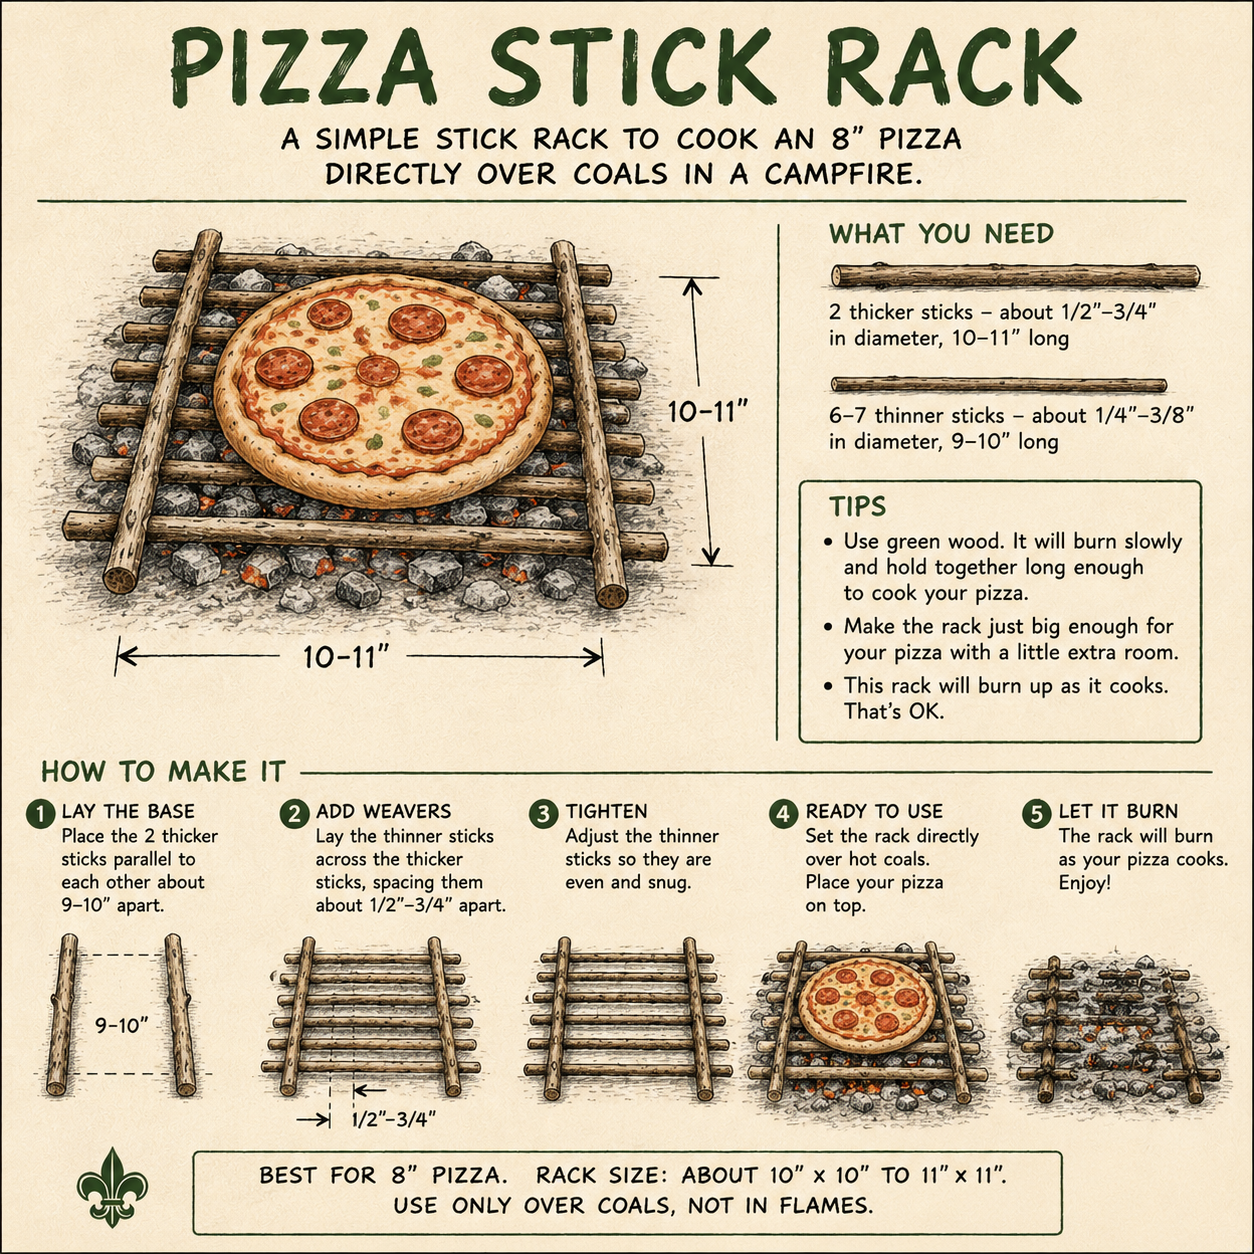
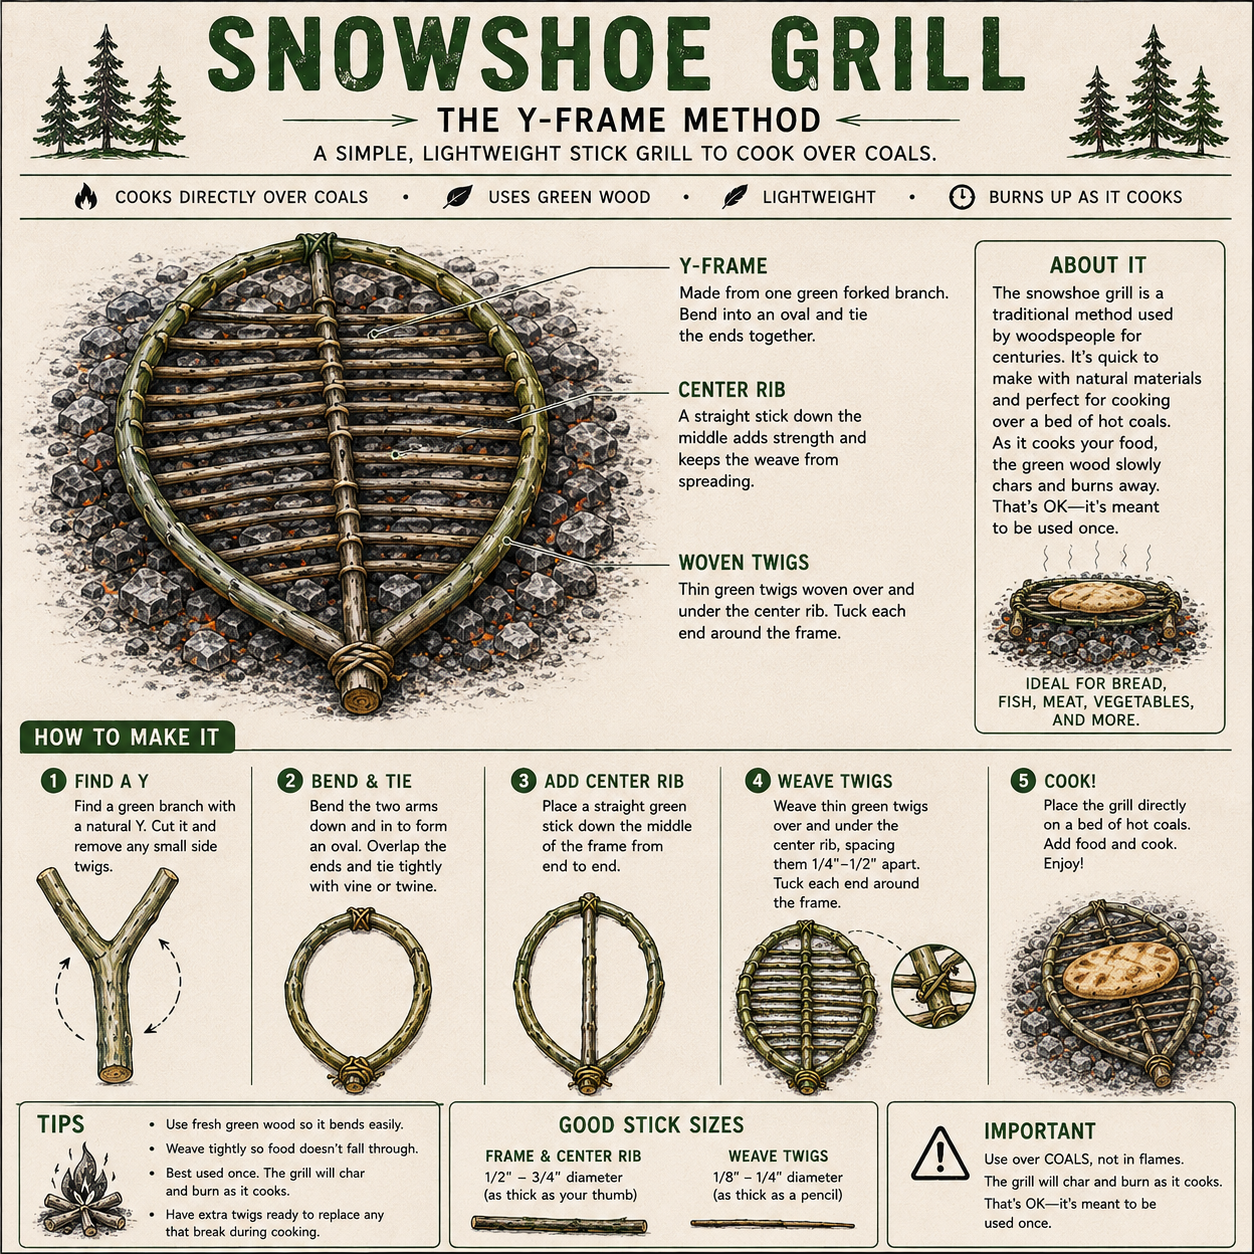
updates to the pizza oven merit badge, better image and instructions

diff --git a/docs/pizza-oven-merit-badge/index.md b/docs/pizza-oven-merit-badge/index.md
@@ -110,7 +110,8 @@
       <ul>
         <li>Clay</li>
         <li>Sand</li>
-        <li>Straw or dry grass</li>
+        <li>Straw or grass for the oven</li>
+        <li>grass to lash the snowshoe grill together or use natural untreated hemp twine or cooking twine</li>
         <li>Water</li>
         <li>Firewood</li>
         <li>Pizza peel, flat pan, or safe method for placing pizza in the oven</li>
@@ -134,6 +135,7 @@
       Many different woods are not safe for cooking, so when in doubt, do not use it.
     </p>
     <ul>
+      <li>Do not use synthetic rope to make the snowshoe grill. Use grass or cooking twine.</li>
       <li>Do not build the oven with stones, especially river stones, because trapped moisture can make them explode when heated.</li>
       <li>Use food-safe, untreated wood for firewood and the pizza platform. Good examples include oak, birch, maple, and cherry.</li>
       <li>Do not use treated, painted, stained, glued, or pressure-treated wood.</li>
@@ -293,22 +295,47 @@
   </div>
 
   <div class="merit-badge-section merit-badge-note">
-    <h2>Cooking the Pizza</h2>
+    <h2>Make the Snowshoe Grill</h2>
+    <a href="https://www.popsci.com/survival-cooking-how-to-cook-with-sticks/" target="_blank">How to make a snowshoe grill</a>
+    <p>
+      Before cooking the pizza, build a simple snowshoe-style grill from green sticks. Use grass,  untreated twine, or butchers twine for any lashing needed. The grill should be just big enough and sturdy enough for an 8-inch pizza.
+    </p>
+
     <figure class="merit-badge-image-wrap merit-badge-cooking-image-wrap">
-      <img class="merit-badge-image" src="pizza%20rack%20to%20build%20the%20pizza%20on%20to%20transfer%20to%20the%20fire.png" alt="Pizza rack for building and transferring the pizza" />
+      <img class="merit-badge-image" src="pizza%20rack%20to%20build%20the%20pizza%20on%20to%20transfer%20to%20the%20fire.png" alt="Pizza rack made from sticks for cooking over coals" />
+      
     </figure>
-    <p>The image above is not exactly correct. The sticks would be thinner and woven together. Once the crust hardens it is easier to pull out of the oven and onto a tray. </p>
+    
+    <h3>Issues with the image</h3>
+    <ul>
+      <li>The grill shown in the image is a little bit too big, but gets the idea across.</li>
+      <li>the image shows both ends being lashed, only one end of the snowshoe needs to be lashed</li>
+      <li>The image shows the cross sticks as being lashed, it should show them as woven over the center stick. Alternate one over, the next under. No lashing required.  </li>
+      <li>The image says to use 1/2 inch twigs, I would use even smaller, like 1/4 inch for everything.</li>
+      <li>The graphic says to cook over coals, this is true, but there should be a flame going in the back or sides of the oven to provide infra-red heat to the top of the pizza.</li>
+    </ul>
+
+    
+    <h3>How to make</h3>
+    <ul>
+      <li>Find a small green branch with a Y shape.</li>
+      <li>Bend the ends of the Y into on oval and weave together, it should look like a snowshoe or tennis racket with a handle.</li>
+      <li>Optionally use some grass, vine, or butchers twine to lash the loop together</li>
+      <li>place a straight stick in the middle, and weave in a few other sticks.</li>
+      <li>it should be ready to build the pizza on and put in the fire.</li>
+    </ul>
+
+    <p>
+      
+    </p>
+  </div>
+
+  <div class="merit-badge-section merit-badge-note">
+    <h2>Cooking the Pizza</h2>
     <p>
       The pizza should be cooked only after the oven has fully heated and the floor has had
       time to absorb and store heat. Use dry, seasoned firewood and keep adult supervision
       nearby throughout the entire cook.
-    </p>
-
-    <h3>Build the Pizza Platform</h3>
-    <p>
-      Weave a square platform from green, untreated sticks that is just big enough to hold
-      an 8-inch flattened dough round. Make sure the rack is small enough to fit through
-      the opening of the oven.
     </p>
 
     <h3>Assemble the Pizza on the Platform</h3>